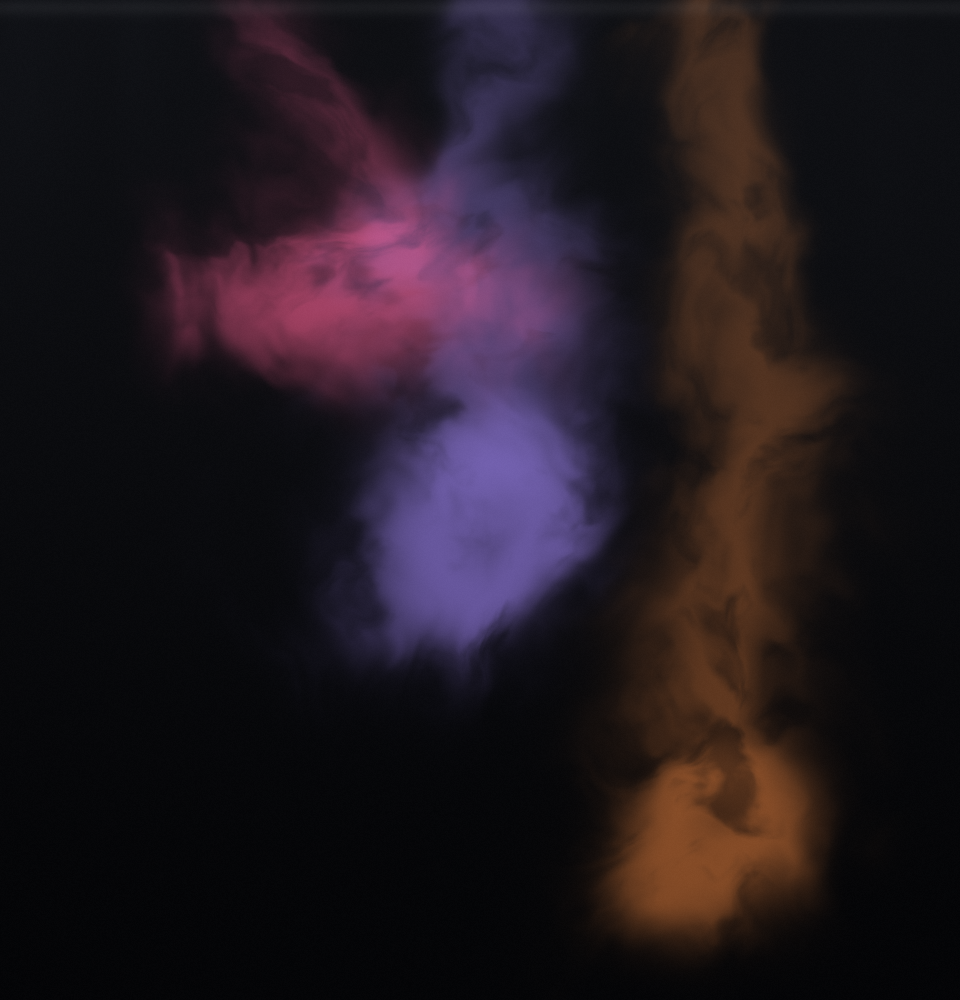
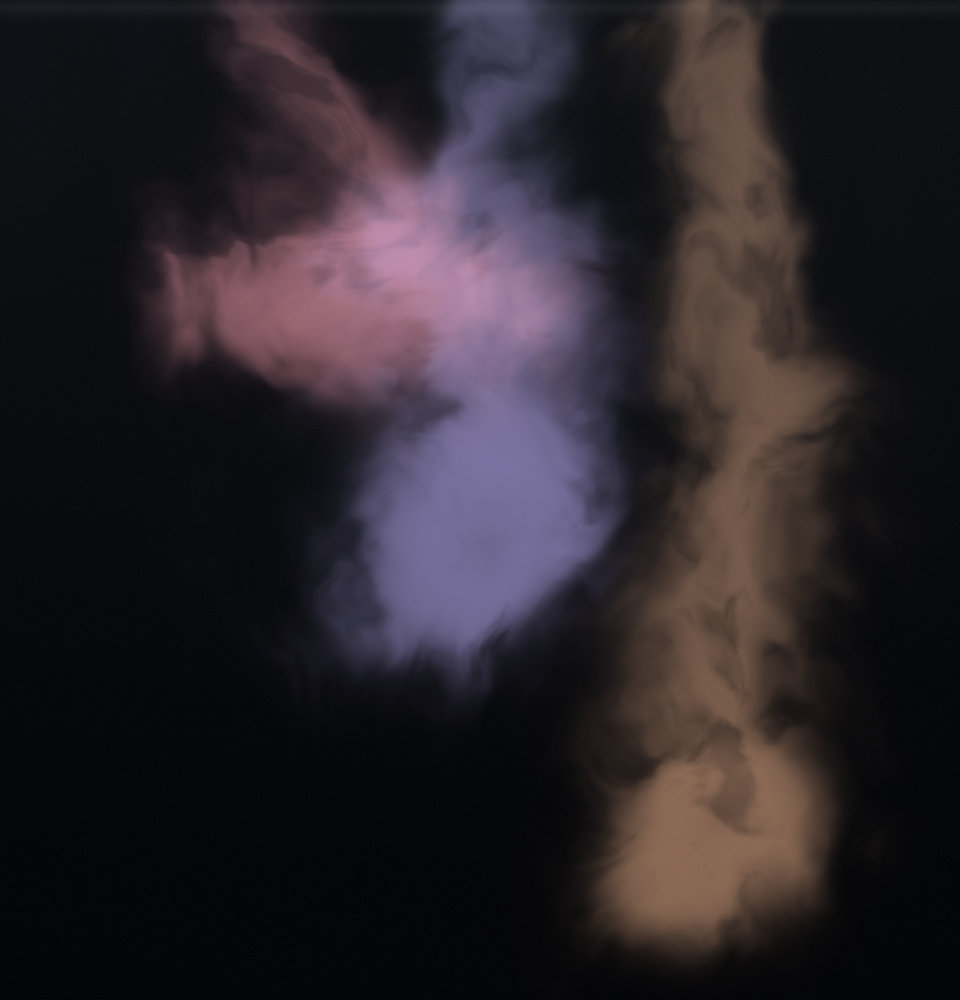
Give the perfume inks a softer, prettier palette
Claude-Session: https://claude.ai/code/session_01BFd34VFMProRkinR4R78h1

Changed region(s): [[0.1562, 0.0, 0.6562, 0.682], [0.625, 0.0, 0.875, 0.961], [0.25, 0.0, 0.3125, 0.062]]

diff --git a/apps/demo/forms/perfume-atelier/notes.ts b/apps/demo/forms/perfume-atelier/notes.ts
@@ -2,24 +2,24 @@
 // light and stay near the surface; base notes are heavy and sink.
 
 export const TOP = {
-  bergamot: { name: 'Bergamot', ink: [0.78, 0.82, 0.18] },
-  pinkPepper: { name: 'Pink pepper', ink: [0.93, 0.32, 0.5] },
-  yuzu: { name: 'Yuzu', ink: [0.98, 0.72, 0.05] },
-  neroli: { name: 'Neroli', ink: [0.97, 0.5, 0.22] },
+  bergamot: { name: 'Bergamot', ink: [0.78, 0.86, 0.46] },
+  pinkPepper: { name: 'Pink pepper', ink: [0.97, 0.56, 0.62] },
+  yuzu: { name: 'Yuzu', ink: [1.0, 0.83, 0.38] },
+  neroli: { name: 'Neroli', ink: [1.0, 0.67, 0.48] },
 } as const;
 
 export const HEART = {
-  rose: { name: 'Damask rose', ink: [0.82, 0.08, 0.32] },
-  jasmine: { name: 'Jasmine', ink: [0.93, 0.68, 0.22] },
-  iris: { name: 'Iris', ink: [0.56, 0.46, 0.86] },
-  fig: { name: 'Fig leaf', ink: [0.2, 0.6, 0.36] },
+  rose: { name: 'Damask rose', ink: [0.88, 0.38, 0.54] },
+  jasmine: { name: 'Jasmine', ink: [0.97, 0.8, 0.52] },
+  iris: { name: 'Iris', ink: [0.68, 0.62, 0.92] },
+  fig: { name: 'Fig leaf', ink: [0.52, 0.74, 0.58] },
 } as const;
 
 export const BASE = {
-  sandalwood: { name: 'Sandalwood', ink: [0.66, 0.36, 0.16] },
-  vetiver: { name: 'Vetiver', ink: [0.16, 0.42, 0.34] },
-  amber: { name: 'Amber', ink: [0.9, 0.44, 0.06] },
-  oud: { name: 'Oud', ink: [0.3, 0.1, 0.24] },
+  sandalwood: { name: 'Sandalwood', ink: [0.84, 0.6, 0.44] },
+  vetiver: { name: 'Vetiver', ink: [0.32, 0.6, 0.56] },
+  amber: { name: 'Amber', ink: [0.95, 0.62, 0.26] },
+  oud: { name: 'Oud', ink: [0.56, 0.27, 0.45] },
 } as const;
 
 export const CONCENTRATION = {
